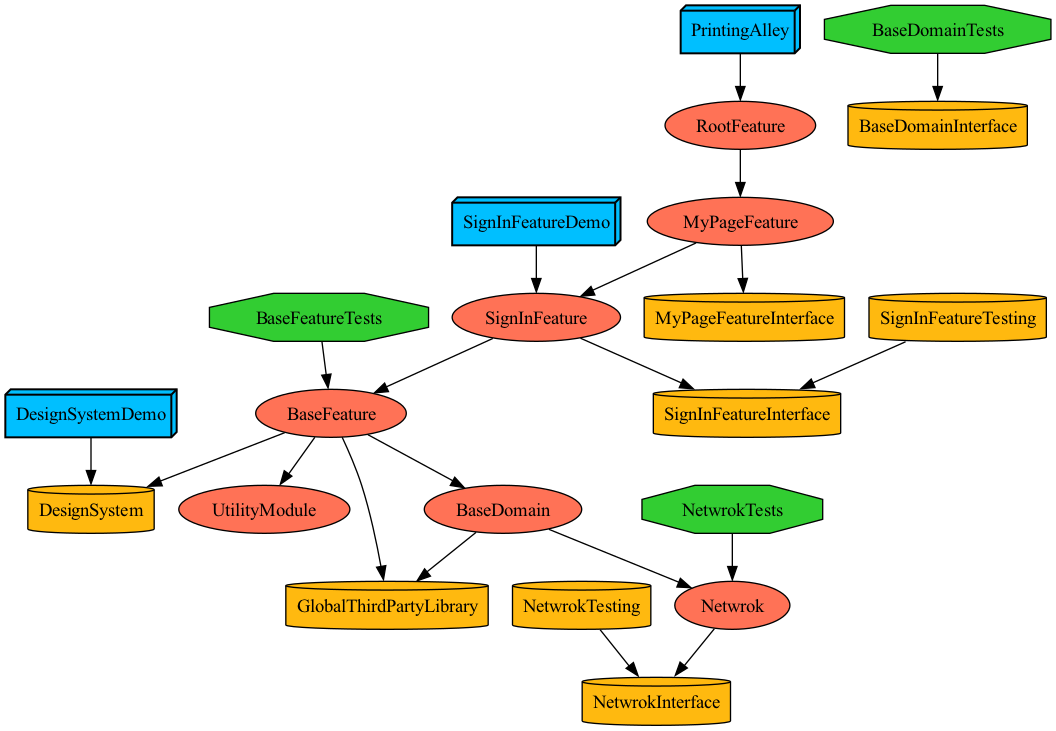
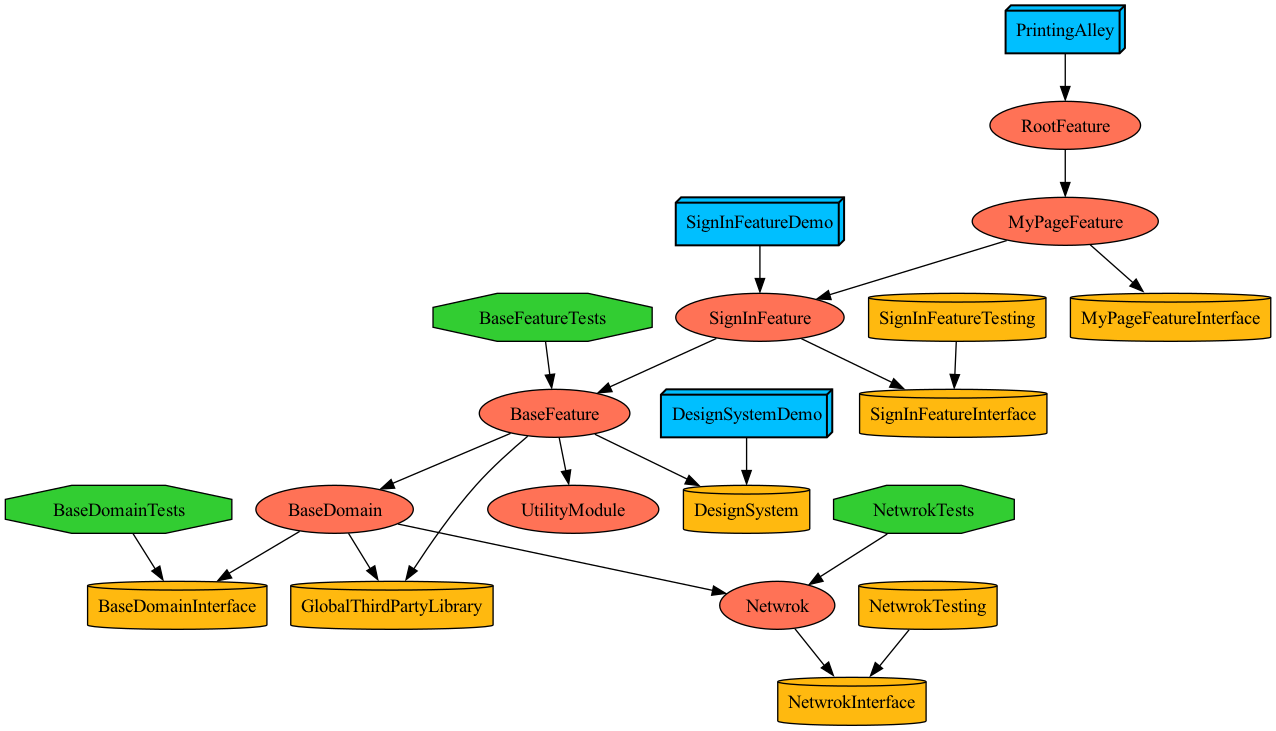
:film_projector: :: 도메인 모듈 디펜던시 변경

diff --git a/Projects/Domain/BaseDomain/Project.swift b/Projects/Domain/BaseDomain/Project.swift
@@ -7,7 +7,8 @@ let project = Project.module(
     targets: [
         .implements(module: .domain(.BaseDomain), dependencies: [
             .shared(target: .GlobalThirdPartyLibrary),
-            .core(target: .Netwrok)
+            .core(target: .Netwrok),
+            .domain(target: .BaseDomain,type: .interface)
         ]),
         .interface(module: .domain(.BaseDomain)),
         .tests(module: .domain(.BaseDomain), dependencies: [
